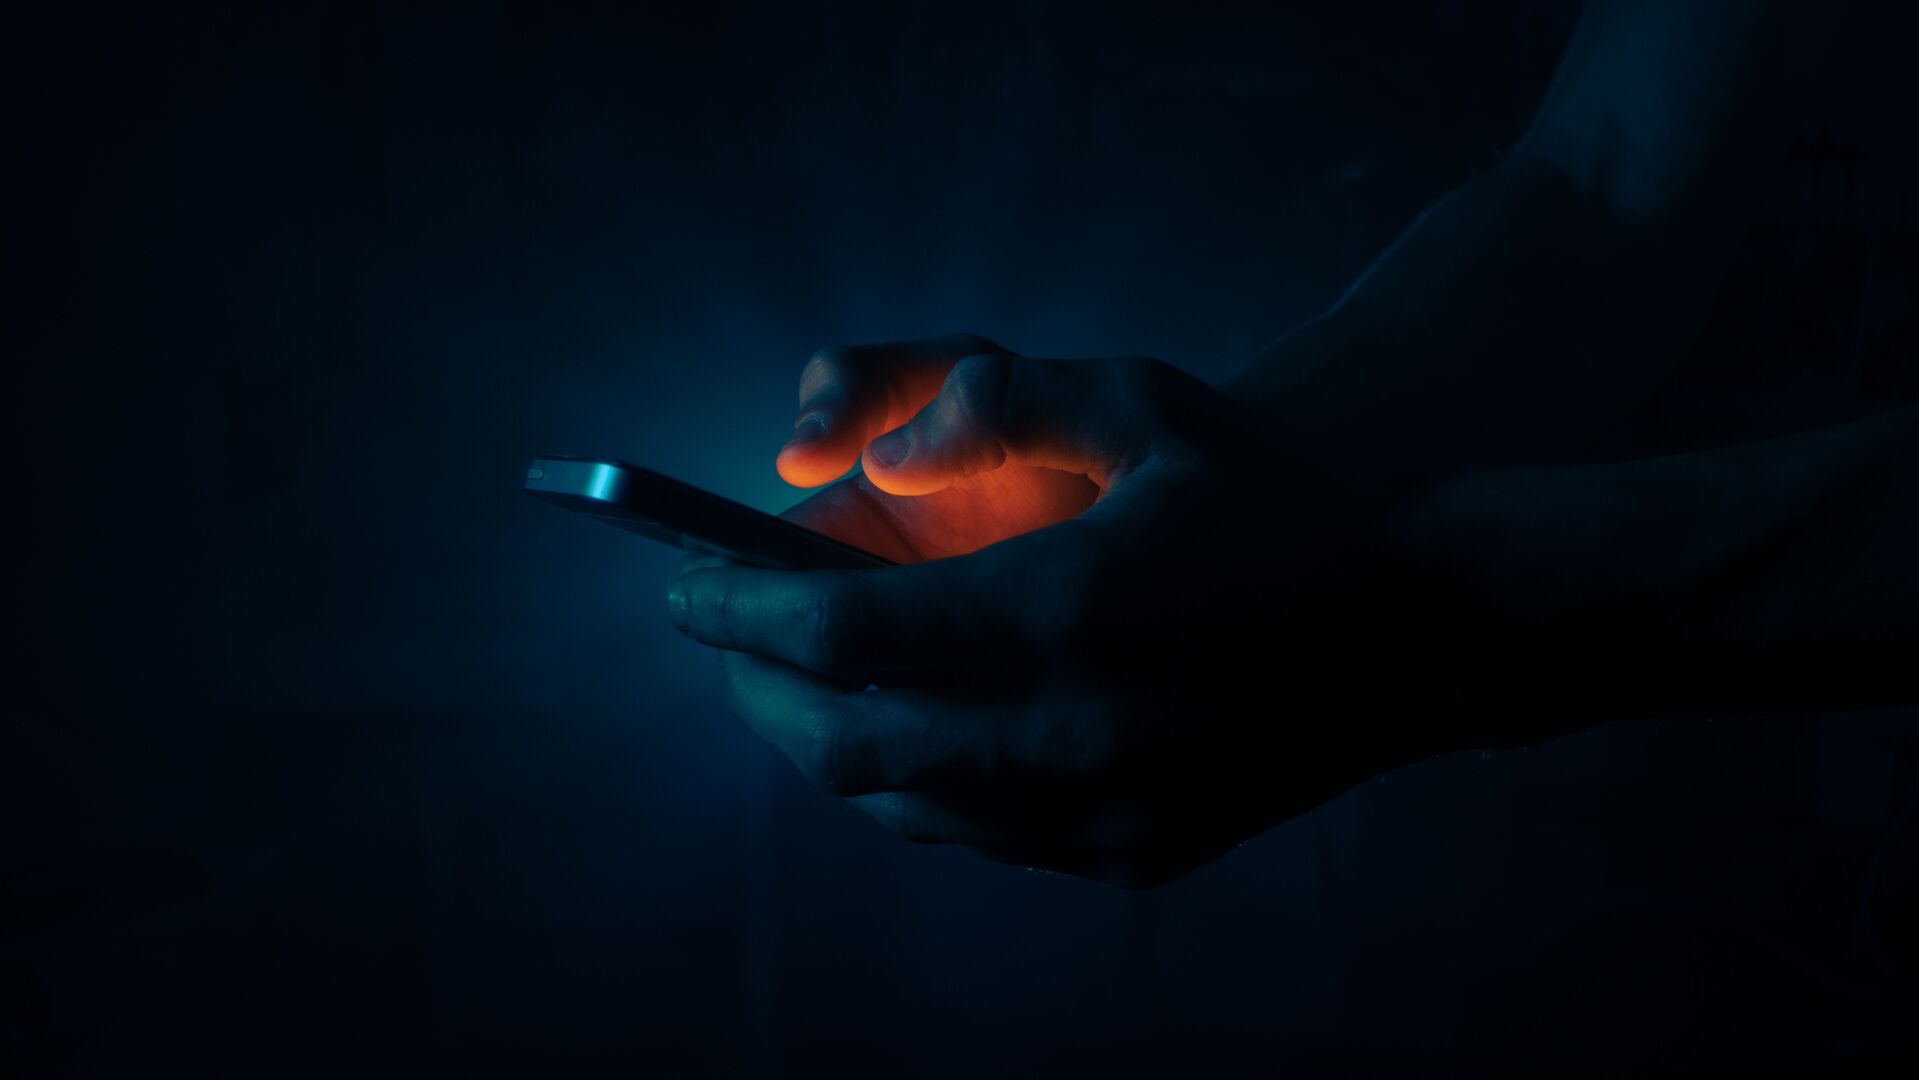
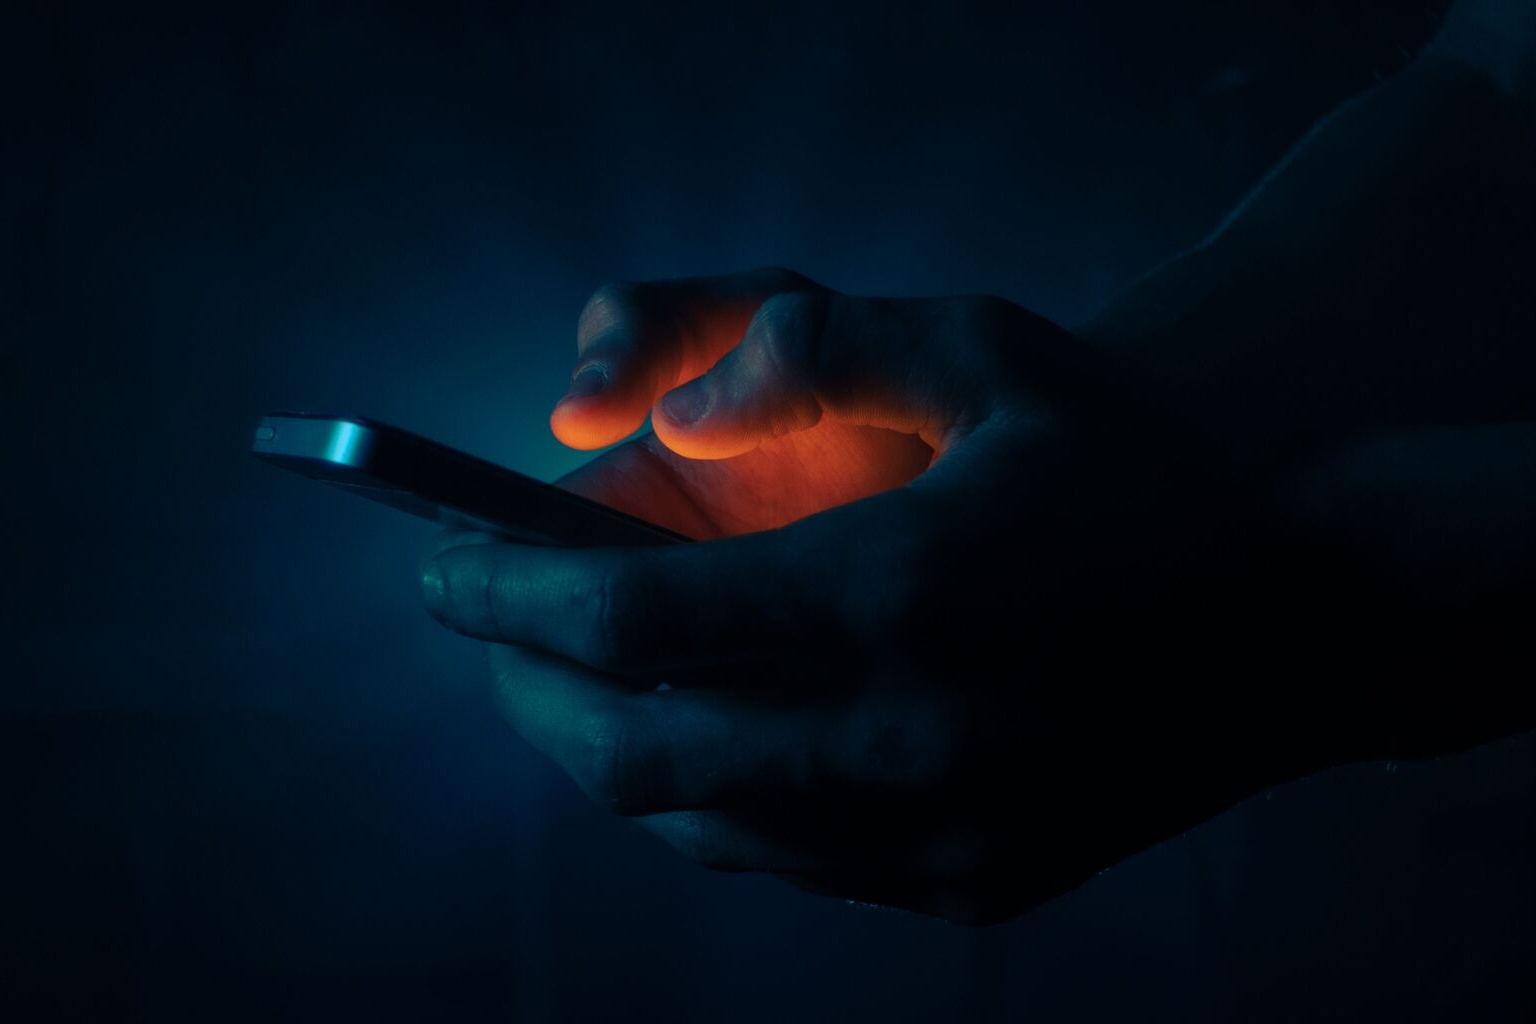
Update resume section and enhance project links in index.html; add styling for resume actions

diff --git a/index.html b/index.html
@@ -19,12 +19,14 @@
 					<a href="#" class="image avatar"><img src="images/avatar.jpg" alt="" /></a>
 					<h1><strong>Bintang Arigo Kautsar Urumsah</strong><br />
 					</h1>
-					<h1><strong>I am Arigo</strong>, a Software Engineer turned<br />
-					Data Analyst proficient in SQL, Python, Tableau, and STATA.<br />
-					<ul class="actions">
+					<h1><strong>I am Arigo</strong>, a Data Scientist with a<br />
+					Software Engineering background. <br /> <br /> 
+					Proficient in SQL, Python, Tableau, Looker, and STATA.<br />
+					
+					</h1>
+					<ul class="actions resume-actions">
 						<li><a href="BintangArigoKautsar_3YOE_Python.pdf" class="button"><strong>Resume</strong></a></li>
 					</ul>
-					</h1>
 				</div>
 			</header>
 
@@ -48,12 +50,12 @@
 						<h2>Projects</h2>
 						<div class="row">
 							<article class="col-6 col-12-xsmall work-item">
-								<a href="https://github.com/arigourumsah/AirbnbReviewClassification_Python" class="image fit thumb"><img src="images/thumbs/python_airbnb.jpg" alt="" /></a>
+								<a href="https://github.com/arigourumsah/AirbnbReviewClassification_Python" class="image fit thumb" target="_blank" rel="noopener noreferrer"><img src="images/thumbs/python_airbnb.jpg" alt="" /></a>
 								<h3>AirBnB Customer Review Classification Using Python</h3>
 								<!-- <p>Lorem ipsum dolor sit amet nisl sed nullam feugiat.</p> -->
 							</article>
 							<article class="col-6 col-12-xsmall work-item">
-								<a href="https://github.com/arigourumsah/Telco_Customer_Churn" class="image fit thumb"><img src="images/thumbs/python_telco.jpg" alt="" /></a>
+								<a href="https://github.com/arigourumsah/Telco_Customer_Churn" class="image fit thumb" target="_blank" rel="noopener noreferrer"><img src="images/thumbs/python_telco.jpg" alt="" /></a>
 								<h3>Telco Customer Churn Prediction Using Python</h3>
 								<!-- <p>Lorem ipsum dolor sit amet nisl sed nullam feugiat.</p> -->
 							</article>
@@ -110,13 +112,13 @@
 									<li>
 										<h3 class="icon solid fa-home"><span class="label">Address</span></h3>
 										<!-- 1234 Somewhere Rd.<br /> -->
-										Budapest<br />
-										Hungary
+										<!-- Budapest<br /> -->
+										Indonesia
 									</li>
-									<li>
+									<!-- <li>
 										<h3 class="icon solid fa-mobile-alt"><span class="label">Phone</span></h3>
-										+36 70 591 4790
-									</li>
+										####
+									</li> -->
 									<li>
 										<h3 class="icon solid fa-envelope"><span class="label">Email</span></h3>
 										<a href="mailto:arigourumsah@gmail.com">arigourumsah@gmail.com</a>

diff --git a/assets/css/main.css b/assets/css/main.css
@@ -2689,6 +2689,18 @@ input, select, textarea {
 			width: 6.25em;
 		}
 
+		#header .resume-actions {
+			display: flex;
+			justify-content: center;
+			margin: 1em 0 0 0;
+			padding: 0;
+			width: 100%;
+		}
+
+		#header .resume-actions li {
+			margin: 0;
+		}
+
 /* Footer */
 
 	#footer .icons {
